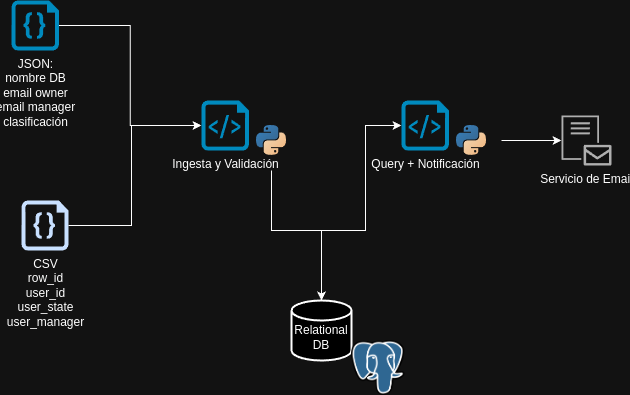
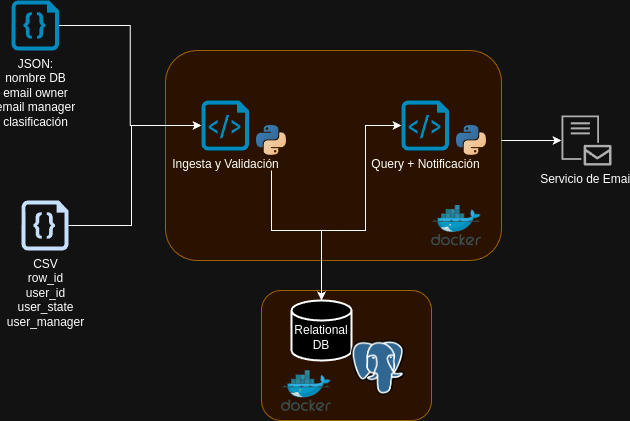
Agregando diagrama de esquema de DB y agregando docker al diagrama de arquitectura

diff --git a/README.md b/README.md
@@ -20,3 +20,9 @@ pidiendo su OK respecto de la clasificación.
 # Arquitectura propuesta
 
 ![](draft_diagrama_solucion.png)
+
+## Esquema de DB
+
+El siguiente diagrama representa el esquema de la base de datos
+
+![](db_schema.png)
